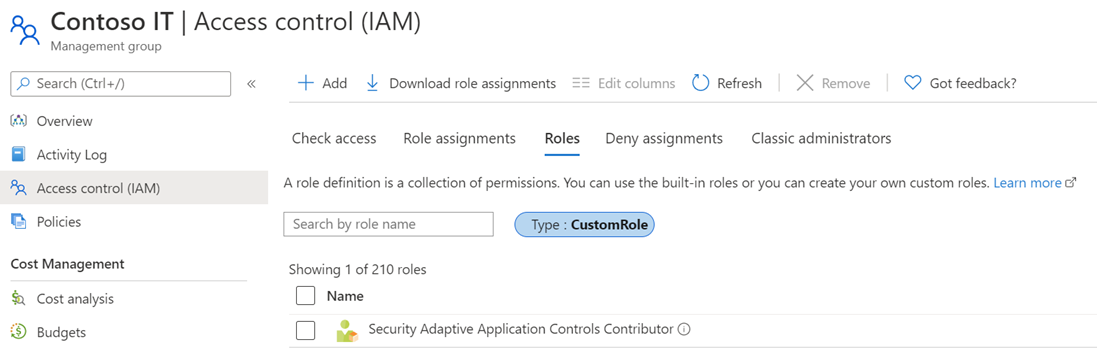
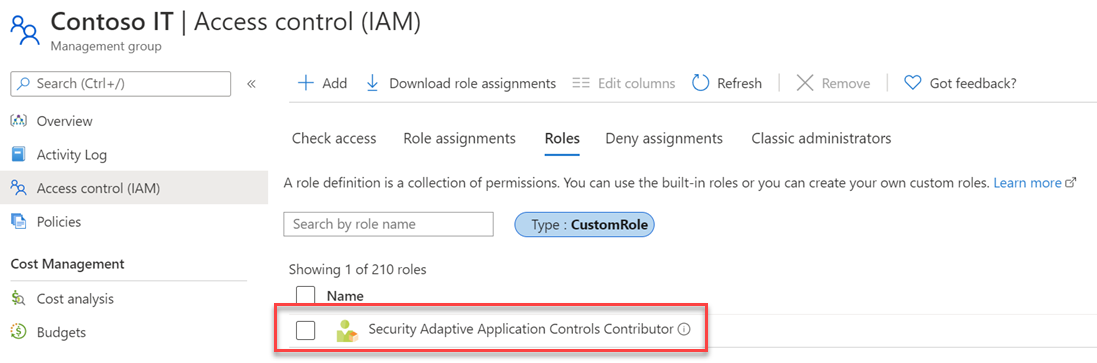
Updating AAC Logic App

Changed region(s): [[0.2479, 0.8182, 0.6509, 1.0]]

diff --git a/Workflow automation/Add-PathAACPolicy/readme.md b/Workflow automation/Add-PathAACPolicy/readme.md
@@ -1,6 +1,7 @@
  # Add a new file path as allow list rule when an ASC alert is triggered/created for AAC policy
 ### Author: Lior Arviv
 
+### Overview
 Adaptive application controls are an intelligent and automated solution for defining allow lists of known-safe applications for your machines.
 When you've enabled and configured adaptive application controls, you'll get security alerts if any application runs other than the ones you've defined as safe.
 By using this Logic App automation, you can quickly respond to **Adaptive application control policy violation was audited** security alert.
@@ -9,12 +10,19 @@ The automation extracts a security alert and add the file path as a new allow li
 The ARM template will create the Logic App automation and the related API connection to Azure Security Center alert.
 To be able to deploy the resources, your account needs to have at least *Contributor* rights on the target Resource Group.
 The Logic App also uses a System-Assigned Managed Identity to access API endpoints.
-To make this Logic App works, you can have choose between two options:
+
+![Trigger Logic App](./Images/trigger-logic-app.png?raw=true)
+
+### Instructions
+
+To make this Logic App work, you can have to choose between two options:
 
 * Grant *Security Admin* (built-in role) to the Logic App's Managed Identity on all subscriptions or management groups you want to monitor and manage resources in using this Logic App
-* Create a new custom role based on the principle of least privilege so it can read existing VMs group policy and modify them where needed without having high privileges as the Security Admin - see additional details on "Create a custom role for least privilege access" below.
+* Create a new custom role based on the principle of least privilege access so it can only read subscriptions list alongside with VMs group policy and modify them where needed without having high privileges as the Security Admin - see additional details on "Create a custom role for least privilege access" below.
 
 > Notice that you can assign permissions only if your account has been assigned as Owner or User Access Administrator roles.
+
+1. Click on the **Deploy to Azure** button to create the Logic App in a target resource group.
 
 <br>
 
@@ -23,6 +31,14 @@ To make this Logic App works, you can have choose between two options:
 
 <a href="https://portal.azure.us/#create/Microsoft.Template/uri/" target="_blank">
 <img src="https://aka.ms/deploytoazuregovbutton"/></a>
+
+2. Go to the subscription/management group page.
+3. Click **Access Control (IAM)** on the navigation bar.
+4. Click **+Add** and **Add role assignment**.
+5. Select the respective role - **Security Admin** (built-in) or **Security Adaptive Application Controls Contributor** (custom).
+6. Assign access to Logic App.
+7. Select the subscription where the logic app was deployed and then select `Add-PathAACPolicy` Logic App.
+8. Click **Save**.
 
 ### Create a custom role for least privilege access
 1. Download the `aac-custom-rbac-role.json` file to your machine.
@@ -35,10 +51,11 @@ To make this Logic App works, you can have choose between two options:
     "/subscriptions/00000000-0000-0000-0000-000000000000"
   ]
 ```
-
 3. Run the following PowerShell command to deploy the new custom role on a desired scope:
 
 ```powershell
 New-AzRoleDefinition -InputFile "C:\CustomRoles\aac-custom-rbac-role.json"
 ```
 4. Validate that your new custom role definition is deployed on the selected scope/s. The recommended approach is to select a management group.
+
+![Custom Role Definition](./Images/custom-rbac-role.png?raw=true)
